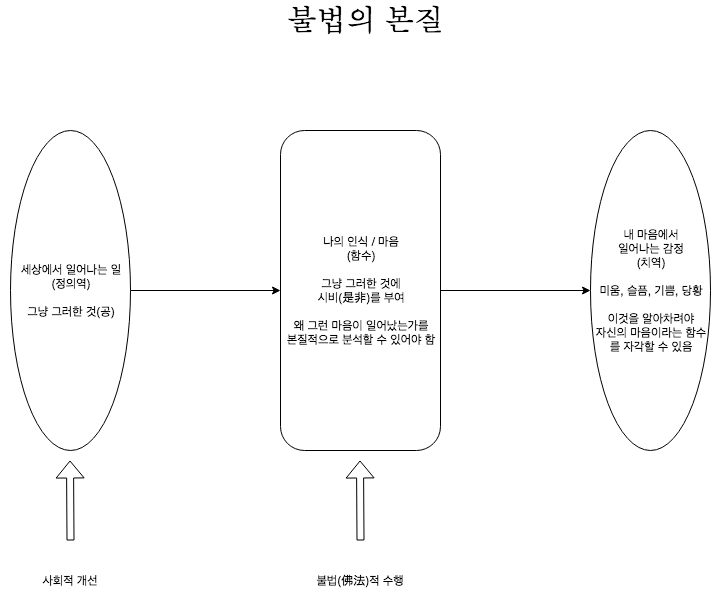
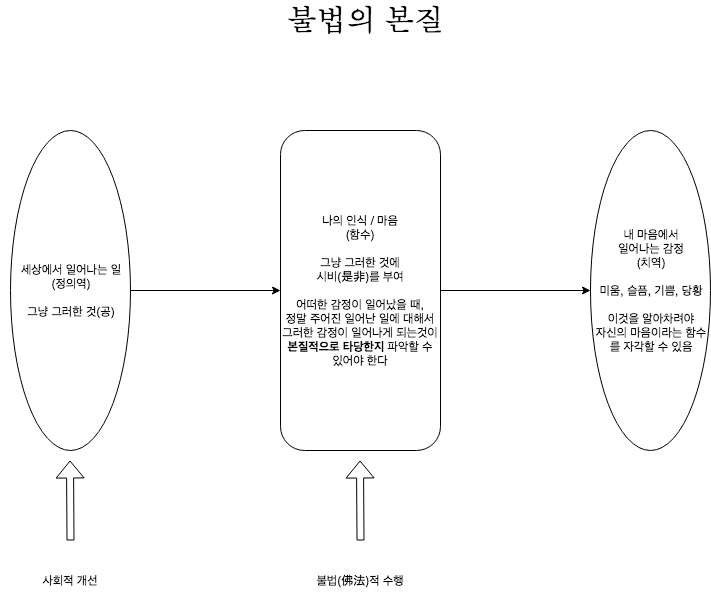
buddism: add supplement contents

Changed region(s): [[0.4023, 0.3421, 0.6188, 0.6219]]

diff --git a/Buddism/bup_ryun_framework.md b/Buddism/bup_ryun_framework.md
@@ -29,11 +29,14 @@
     - 애초에 현실의 상황은 좋은것도 나쁜것도 아니고, 시비할 수 없음(공)
     - 그것을 모르기때문에 괴로움이 발생
     - 그런데 그것에 의하여 감정이 일어났다는 것은 그 사상으로 인한 자신의 마음의 물결이 일어났다는 것
-    - **이럴때는 자신의 마음상태가 일어났다는 것을 깨닫고, 현실 상황의 본질을 추구하면 괴로워하지 않아도 되는 일이라는 것을 알게 됨**
-    - 비유하자면, "자신의 마음" 이라는 함수가 정의역인 현실 상황, 치역인 자신의 마음상태를 매칭시켜준다고 일반인은 생각하지만 애초에 정의역에 대한 본질 해석이 잘못되었다는 것을 인식해야 함
+    - **이럴때는 자신의 마음상태가 일어났다는 것을 깨닫고, 나의 마음의 물결이 일으키게 된 본질을 추구하면 괴로워하지 않아도 되는 일이라는 것을 알게 됨**
+    - 비유하자면, "자신의 마음" 이라는 함수가 정의역인 현실 상황, 치역인 자신의 마음상태를 매칭시켜준다고 일반인은 생각하지만 애초에 정의역에 대한 본질 인식이 잘못되었다는 것을 인식해야 함
     - **이를 개선하려면 치역이 항상 왜 생겨났는지를 파악할 수 있어야 하고, 그러한 치역(자신의 감정)이 일어났을때 정의역이 무엇이었으며 그것의 본질을 파악해서 잘못된 매칭이었다는것을 깨달아야 함**
     - 정의역(현실 상황)은 그저 정의역일 뿐, 그것을 치역(감정)으로 연결시키는 것은 함수(우리의 인식 / 마음)이다.
-    - 물론 input을 변화시켜도 함수의 결과값은 변하나, 함수 자체의 로직이 잘못되어있으면 다른 input이 들어왔을때 에러(괴로움)를 발생시킬 가능성이 크다
+    - 물론 input을 변화시켜도 함수의 결과값은 변하나, 함수 자체의 로직이 잘못되어있으면 다른 input이 들어왔을때 에러(괴로움)를 발생시킬 가능성이 크다. 반대로 함수 자체의 로직이 잘 되어있으면 어떠한 input이 와도 에러를 발생시킬 가능성이 낮다. 오히려 새로운 효과를 얻을 수도 있다.
+  - **타인이나 그냥 그러한 것을 바꾸는 것은 어렵다. 그렇기 때문에 자신의 마음이 괴로울때는 나의 인식 / 마음이 모순적이라는 것을 깨달아서 마음의 안식을 얻는다. 물론 이렇게 괴로워하는 사람들을 줄이기 위한 사회적 개선 역시 필요하다.**
+  - 깨달음이 쉽다고 주장하는 이유는, 나만 변화하면 되기 때문이다. 타인을 변화시키는 것은 거의 불가능에 가깝다.
+  - 불교에서의 지혜란, **본질을 꿰뚫는 힘** 을 의미한다.
 - 불법의 요지
   - 누구나 어떤상황에 처해있던 행복할 권리가 있음
     - 새로운 걸 얻어서가 아니라 버려서 삶을 단순하고 가볍게 하는 것
@@ -176,10 +179,10 @@
   - "지금 내가 일으키는 생각은 대부분 나의 주관적 생각이다. 그러니 적어도 고집은 하지 말아야 한다."
   - 내가 언제나 아상에 사로잡히는 존재임을 인정하고 항상 자신을 점검해야 합니다.
     - 프로그래밍에서도 언제나 소프트웨어가 복잡해질 것을 인정하고 항상 아키텍처를 점검해야 한다.
-  - 관음의 진신을 친견한다는 것은 어떤 누구를 보는 것이 아니라 이런 과정을 통해서 자기의 모순을 자각하는 것이다.
+  - "관음의 진신을 친견한다" 라는 것은 어떤 누구를 보는 것이 아니라 이런 과정을 통해서 자기의 모순을 자각하는 것이다.
 - "무" 라고 하는 것의 의미를 탐구해야 해요.
   - 없다의 본질이 무엇인가?
-  - 끝없는 본질 탐구
+  - **끝없는 본질 탐구**
 - 참선을 하는데에 중요한 세가지
   - 대신심
     - 부처님의 말씀, 스승의 말씀에 대한 깊은 믿음
@@ -187,7 +190,7 @@
     - 큰 의문
   - 대분심
     - 이를 몰랐음을 분하게 여기고 알려고 하는 강력한 의지
-- '나' 라고 하는 이것이 도대체 무엇인지 진지하게 탐구해야 합니다.
+- **'나' 라고 하는 이것이 도대체 무엇인지 진지하게 탐구해야 합니다.**
   - "네가 누구냐?" / "법륜입니다."
   - "법륜이 너냐, 네 이름이냐?" / "제 이름입니다."
   - "누가 네 이름 물었느냐? 네가 누구냐?" / "저요? 스님입니다."
@@ -203,7 +206,7 @@
   - 이것은 누구의 것입니까?
     - 네 거, 내 거
     - 아, 그렇구나 하는 깨달음
-- 좀 더 진지하게 공부해야 합니다. 지금 우리의 삶이 그대로 화두입니다. 언제나 삶에서 부딪히는 일을 자세히 살펴야 해요. 타성적으로 보지 말고 새로이 돌아봐야 합니다. 그렇게 해야 무슨 일이 일어나도 흔들리지 않는 삶을 살아갈 수 있어요.
+- **좀 더 진지하게 공부해야 합니다. 지금 우리의 삶이 그대로 화두입니다. 언제나 삶에서 부딪히는 일을 자세히 살펴야 해요. 타성적으로 보지 말고 새로이 돌아봐야 합니다. 그렇게 해야 무슨 일이 일어나도 흔들리지 않는 삶을 살아갈 수 있어요.**
   - **명백히 옳고 그르다고 생각했던 문제도 깊이 탐구해 보면 그렇지 않은 경우가 많습니다.**
 - 깨달음이라는 것은 멀리 있는 것이 아닙니다.
   - 마음이 일어나는 곳마다 거기에 있어요.
@@ -280,7 +283,7 @@
   - 고문을 받은 일은 좋은일도 아니고 나쁜 일도 아닙니다.
   - 그것을 통해서 교훈을 얻으면 나에게 좋은 일이 되고, 원한에 사무처 괴로워한다면 인생의 큰 불행이 되지요
   - 인생을 살면서 일어나는 어떤 일도 좋은 일도 없고 나쁜 일도 없습니다. 좋은 일이라고 했던 게 내일 가면 나쁜 일이 될 수도 있고, 나쁜 일이라 했던 게 내일 가면 좋은 일이 될 떄도 있습니다.
-- 자기 뜻과 맞지 않는다고 남을 미워하는 것은 잘못되었다는 말입니다. 그러니 우리가 사람을 만나 함께할 때는 우선 그 사람을 있는 그대로 인정해야 합니다.
+- **자기 뜻과 맞지 않는다고 남을 미워하는 것은 잘못되었다는 말입니다. 그러니 우리가 사람을 만나 함께할 때는 우선 그 사람을 있는 그대로 인정해야 합니다.**
   - 모든 것을 자기 마음대로 하고 싶으면 혼자 사는 게 낫습니다.
 - 많은 사람들이 세상이 복잡하다고 말합니다. 그런데 세상이라는 것은 복잡하고 말고 할 것 없이 그냥 그런 거예요.
   - 날씨도 그렇습니다. 오직 사람만이 덥고 춥다고 변덕을 부릴 뿐 지금처럼 늘 그랬습니다.
@@ -309,5 +312,8 @@
 마음 공부를 하며 법륜 스님을 직접 뵌다면 물어보고 싶은 의문들을 모아두었다.
 
 - 관념적인 것을 벗어던지라고 스님은 말씀하시는데, 관념적 이라는 것은 무엇을 뜻하는 것입니까?
+  - 아상을 말씀하시는 것일듯. 내가 옳다 하는 시비를 구별하는 마음
 - 우리나라에게 있어서 "독도"라는 것은 영토에 포함이 되는 것인데 어찌 이것을 "독도"도 아니고 "다케시마" 도 아니라고 할 수 있습니까? 둘다 아니라면 영토적 개념에서는 어떻게 생각해야 합니까? 어디에인가는 포함이 되어야 하지 않겠습니까? 이것이 현실 아닙니까? 아상에서 벗어나야하지만 타인에게 아상에서 벗어나야한다고 주장하는 거 자체가 아상이 아닙니까?
   - 독도의 개념은 사회적인 관점이고, 상대방이 독도를 다케시마로 부르는 것을 미워하는 것은 우리의 마음의 문제. 후자는 불교의 교리로 마음의 해결이 가능하나 전자는 사회적으로 해결해야 한다.
+  - 그러므로 애초에 도메인이 다른 레벨이다.
+  - 그렇다고 독도를 다케시마라고 주장하는 사람들을 미워해서는 안된다.
